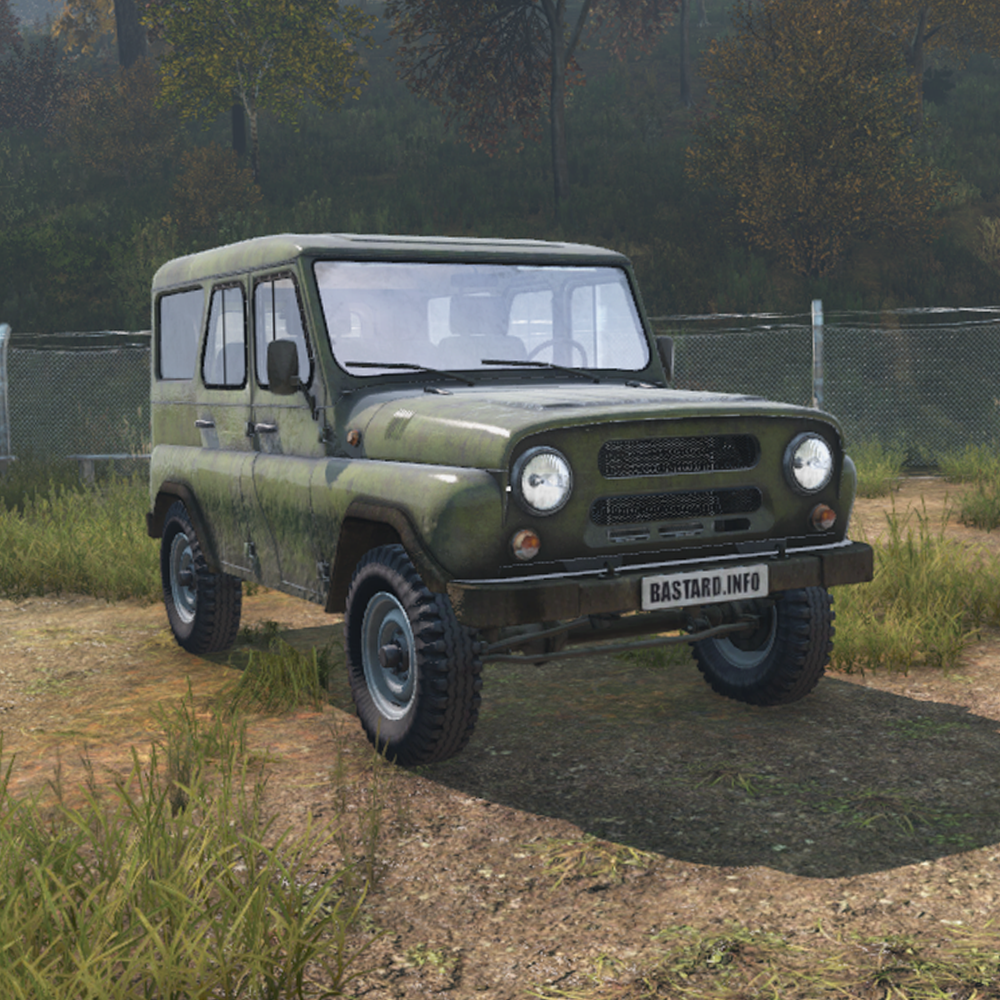
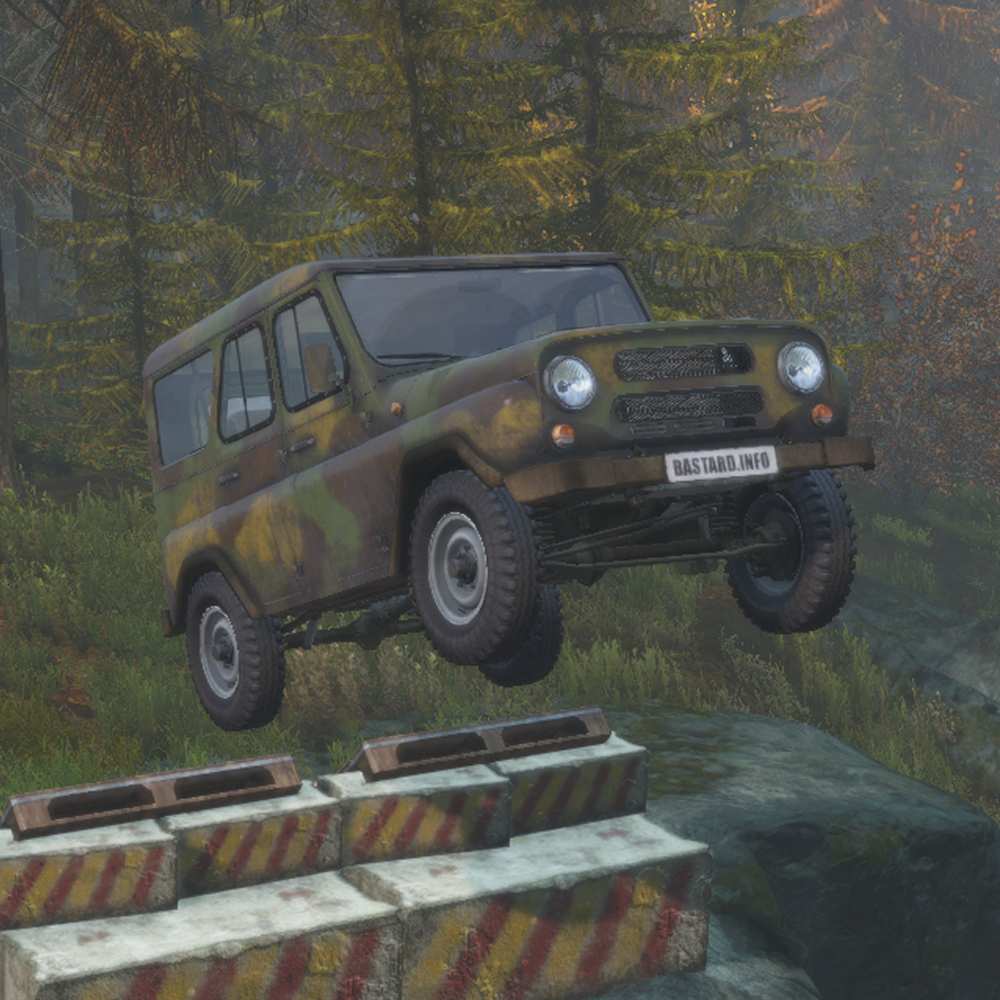
Fly
Fly

diff --git a/index_uaz.html b/index_uaz.html
@@ -82,6 +82,7 @@
 							  <input type="radio" name="kadoves" id="slaid6">
 							  <input type="radio" name="kadoves" id="slaid7">
 							  <input type="radio" name="kadoves" id="slaid8">
+							  <input type="radio" name="kadoves" id="slaid9">
 							   
 							  <div class="kadoves">
 							  <label for="slaid1"></label>
@@ -92,18 +93,20 @@
 							  <label for="slaid6"></label>
 							  <label for="slaid7"></label>
 							  <label for="slaid8"></label>
+							  <label for="slaid9"></label>
 							  </div>
 							   
 							  <div class="adaptivny-slayder-lasekun">
 							  <div class="abusteku-deagulus">
 							  <img src="img\Uaz_2.png"/>
-							  <img src="img\Uaz_1.png"/>
+							  <img src="img\Uaz_9.png"/>
 							  <img src="img\Uaz_3.png"/>
 							  <img src="img\Uaz_4.png"/>
 							  <img src="img\Uaz_5.png"/>
 							  <img src="img\Uaz_6.png"/>
 							  <img src="img\Uaz_7.png"/>
 							  <img src="img\Uaz_8.png"/>
+							  <img src="img\Uaz_1.png"/>
 							  </div>
 							  </div>
 							</div>

diff --git a/index_uaz_ru.html b/index_uaz_ru.html
@@ -82,6 +82,7 @@
 							  <input type="radio" name="kadoves" id="slaid6">
 							  <input type="radio" name="kadoves" id="slaid7">
 							  <input type="radio" name="kadoves" id="slaid8">
+							  <input type="radio" name="kadoves" id="slaid9">
 							   
 							  <div class="kadoves">
 							  <label for="slaid1"></label>
@@ -92,18 +93,20 @@
 							  <label for="slaid6"></label>
 							  <label for="slaid7"></label>
 							  <label for="slaid8"></label>
+							  <label for="slaid9"></label>
 							  </div>
 							   
 							  <div class="adaptivny-slayder-lasekun">
 							  <div class="abusteku-deagulus">
 							  <img src="img\Uaz_2.png"/>
-							  <img src="img\Uaz_1.png"/>
+							  <img src="img\Uaz_9.png"/>
 							  <img src="img\Uaz_3.png"/>
 							  <img src="img\Uaz_4.png"/>
 							  <img src="img\Uaz_5.png"/>
 							  <img src="img\Uaz_6.png"/>
 							  <img src="img\Uaz_7.png"/>
 							  <img src="img\Uaz_8.png"/>
+							  <img src="img\Uaz_1.png"/>
 							  </div>
 							  </div>
 							</div>

diff --git a/css.css b/css.css
@@ -1049,6 +1049,10 @@ body:not(.layout-front) #cover h1 {
   background-color: white;
 }
 
+#slaid9:checked~.kadoves label[for="slaid9"] {
+  background-color: white;
+}
+
 .adaptivny-slayder-lasekun {
   overflow: hidden;
    
@@ -1095,6 +1099,10 @@ body:not(.layout-front) #cover h1 {
 
 #slaid8:checked~.adaptivny-slayder-lasekun .abusteku-deagulus {
   transform: translateX(-700%);
+}
+
+#slaid9:checked~.adaptivny-slayder-lasekun .abusteku-deagulus {
+  transform: translateX(-800%);
 }
 
 /*Rus/Eng*/
